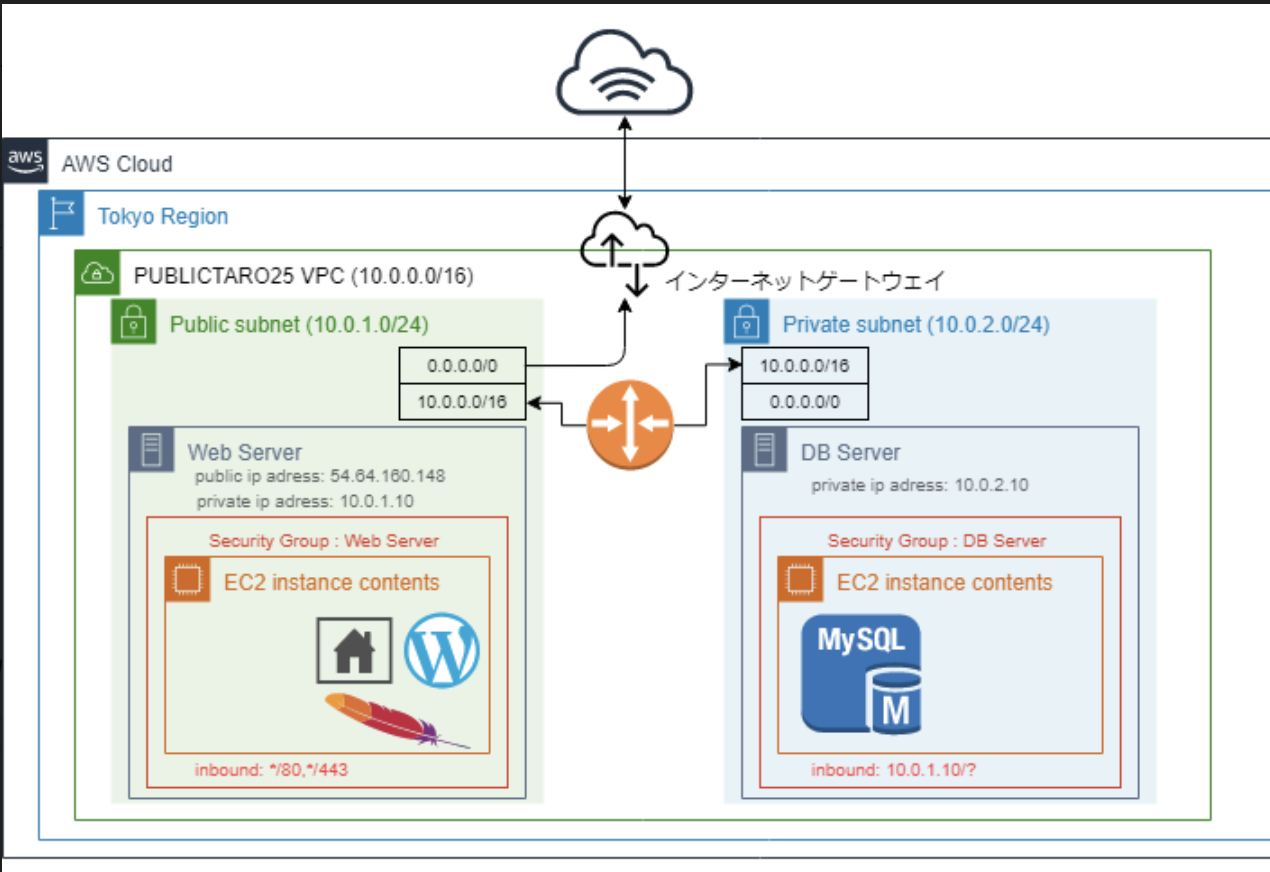
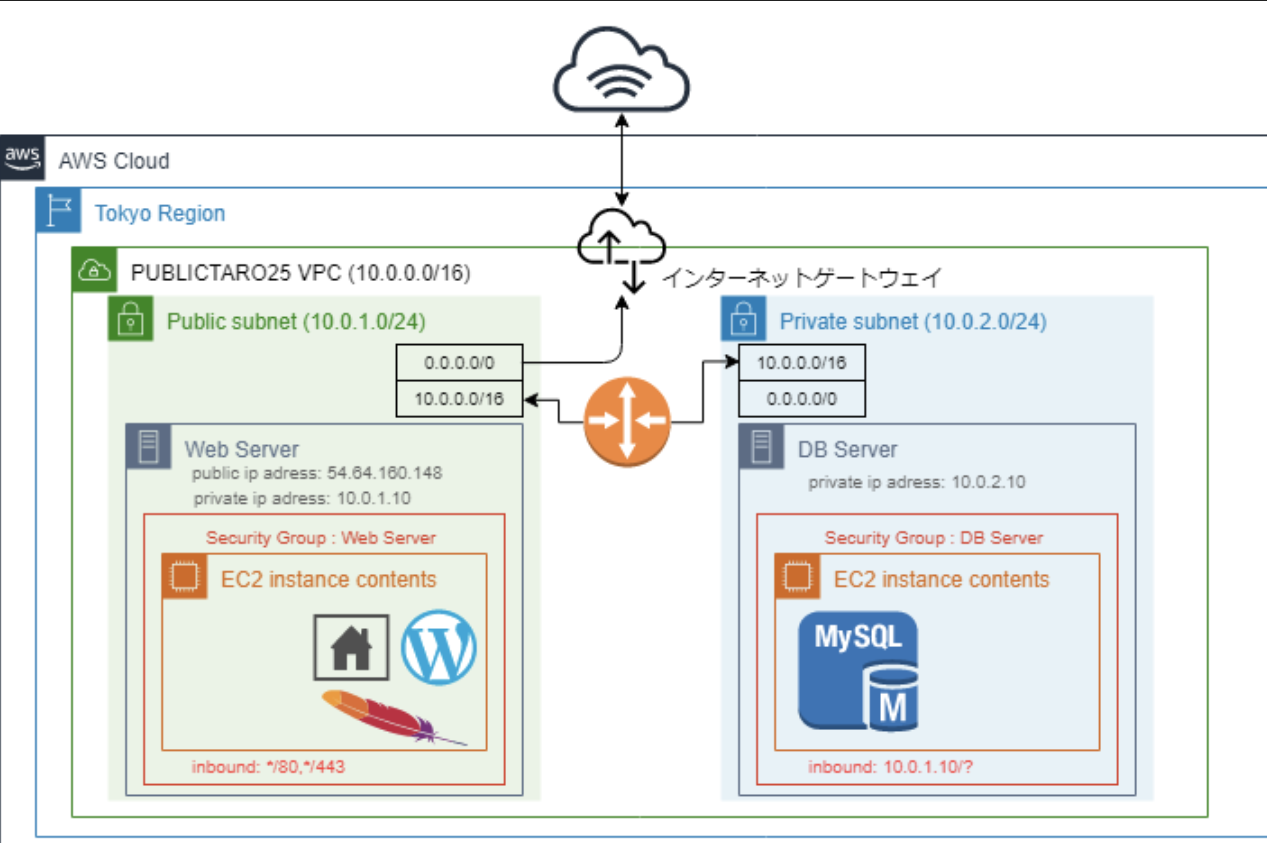
#11 modify img size title size

Changed region(s): [[0.0, 0.0, 1.0, 1.0]]

diff --git a/src/project.js b/src/project.js
@@ -37,21 +37,22 @@ export default class Project extends React.Component{
                 <Col md="6">
                   <Card className ="productcard">
                     <a  onClick={this.toggle.bind(this,aws,"AWSネットワーク構成")}><CardImg top src={aws} alt="myawsnetwork" /></a>
-                    <CardTitle>My AWS Network</CardTitle>
-                    <CardBody>WordPressの公開を目的にAWSのネットワーク構成を検討・構築しました。Webサーバーのみインターネットに公開され、
-                    DBサーバーは外部から参照できないようになっています。今後はELBを導入し冗長性をあげることが課題です。</CardBody>
+                    <CardTitle><h5>My AWS Network</h5></CardTitle>
+                    <CardBody className="description">WordPressの公開を目的にAWSのネットワーク構成を検討・構築しました。Webサーバーのみインターネットに公開され、
+                    DBサーバーは外部から参照できないようになっています。今後はELBを導入し冗長性をあげたいと考えています。</CardBody>
                   </Card>
                 </Col>
                 <Col md="6">
-                  <Card className="productcard">
-                    <a onClick={this.toggle.bind(this,portfolio,"ポートフォリオ")}><CardImg top src={portfolio} alt="myawsnetwork" /></a>
-                    <CardTitle>My Portfolio</CardTitle>
-                    <CardBody>Reactの学習を目的に、デザイン・コンポーネントの構成を検討し、スクラッチしました。コンポーネントの再利用性を理解するには十分でしたがstate管理、外部APIとの連携を次の課題として取り入れたいと考えています。</CardBody>
+                  <Card className="productcard" >
+                    <a onClick={this.toggle.bind(this,portfolio,"ポートフォリオ")}><CardImg  top src={portfolio} alt="myawsnetwork"  /></a>
+                    <CardTitle><h5>My Portfolio</h5></CardTitle>
+                    <CardBody className="description">Reactの学習を目的に、デザイン・コンポーネントの構成を検討し、スクラッチしました。
+                    コンポーネントの再利用性を理解するには十分でしたが、今後はstate管理、外部APIとの連携を取り入れたいと考えています。</CardBody>
                   </Card>
                 </Col>
-                <Modal isOpen={this.state.modal} toggle={this.toggle} className={this.props.className}>
+                <Modal isOpen={this.state.modal} toggle={this.toggle} className={this.props.className} >
                     <ModalHeader toggle={this.toggle}>{this.state.title}</ModalHeader>
-                    <ModalBody><img className="modalimg" src={this.state.img}/></ModalBody>
+                    <ModalBody><img className="modalimg"  src={this.state.img}/></ModalBody>
                   </Modal>
               </Row>
             </Card>

diff --git a/src/updatebs4.css b/src/updatebs4.css
@@ -257,3 +257,11 @@ img {width: 100%;}
     padding: 0;
     
 }
+.description{
+    padding: 1rem;
+    padding-top: 0rem;
+}
+.card-title{
+    padding:0rem 1rem;
+    padding-top: 1rem;
+}
